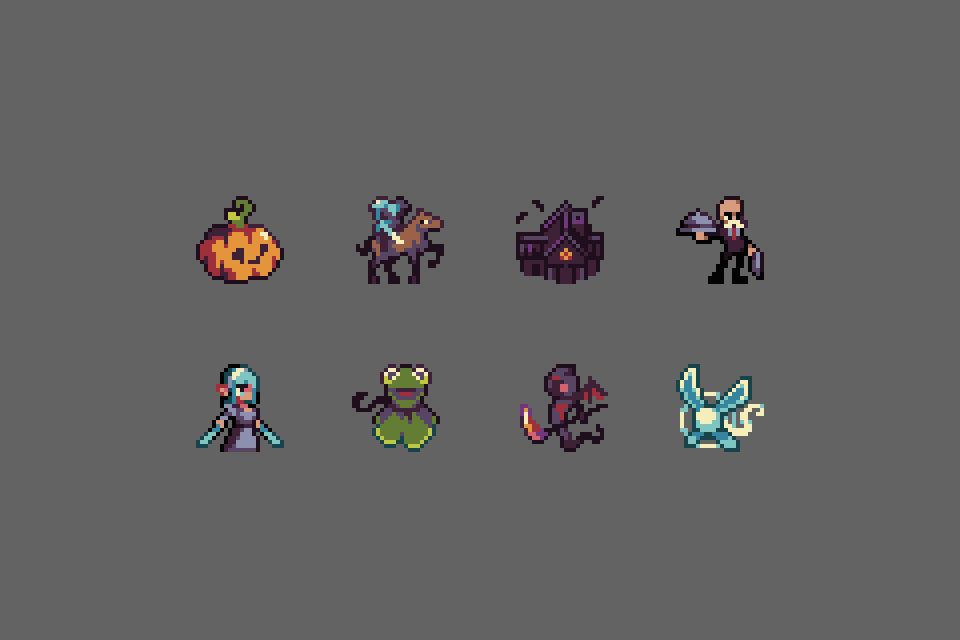
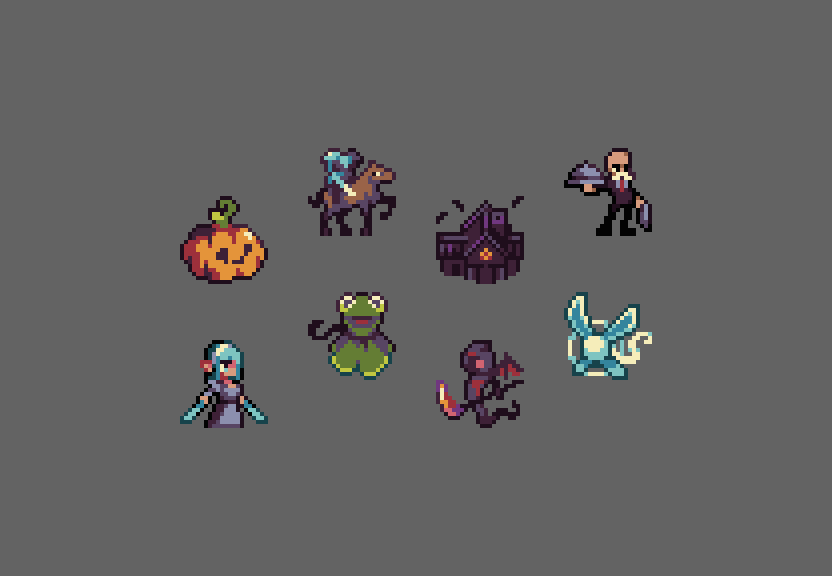
Fix image alignment in Gallery.

diff --git a/app/gallery/page.tsx b/app/gallery/page.tsx
@@ -13,11 +13,11 @@ const gallery = () => {
         <section className="grid grid-cols-1 sm:grid-cols-2 gap-4">
           <div className="relative aspect-square overflow-hidden">
             <Image
-                src="/art/eagle.gif"
+                src="/art/landscape.png"
                 alt="image"
                 fill
                 unoptimized
-                className="object-cover image-pixel"
+                className="object-cover object-right image-pixel"
               />
           </div>
           <div className="relative aspect-square overflow-hidden">
@@ -26,28 +26,7 @@ const gallery = () => {
                 alt="image"
                 fill
                 unoptimized
-                className="object-cover image-pixel"
-              />
-          </div>
-        </section>
-        
-        <section className="grid grid-cols-1 sm:grid-cols-2 gap-4">
-          <div className="relative aspect-square overflow-hidden">
-            <Image
-                src="/art/landscape.png"
-                alt="image"
-                fill
-                unoptimized
-                className="object-cover image-pixel"
-              />
-          </div>
-          <div className="relative aspect-square overflow-hidden">
-            <Image
-                src="/art/village.png"
-                alt="image"
-                fill
-                unoptimized
-                className="object-cover image-pixel"
+                className="object-cover object-right image-pixel"
               />
           </div>
         </section>
@@ -56,6 +35,27 @@ const gallery = () => {
           <div className="relative aspect-square overflow-hidden">
             <Image
                 src="/art/steven.png"
+                alt="image"
+                fill
+                unoptimized
+                className="object-cover image-pixel"
+              />
+          </div>
+          <div className="relative aspect-square overflow-hidden">
+            <Image
+                src="/art/eagle.gif"
+                alt="image"
+                fill
+                unoptimized
+                className="object-cover image-pixel"
+              />
+          </div>
+        </section>
+        
+        <section className="grid grid-cols-1 sm:grid-cols-2 gap-4">
+          <div className="relative aspect-square overflow-hidden">
+            <Image
+                src="/art/PAD.png"
                 alt="image"
                 fill
                 unoptimized
@@ -76,11 +76,11 @@ const gallery = () => {
         <section className="grid grid-cols-1 sm:grid-cols-2 gap-4">
           <div className="relative aspect-square overflow-hidden">
             <Image
-                src="/art/PAD.png"
+                src="/art/village.png"
                 alt="image"
                 fill
                 unoptimized
-                className="object-cover image-pixel"
+                className="object-cover object-top image-pixel"
               />
           </div>
           <div className="relative aspect-square overflow-hidden">
